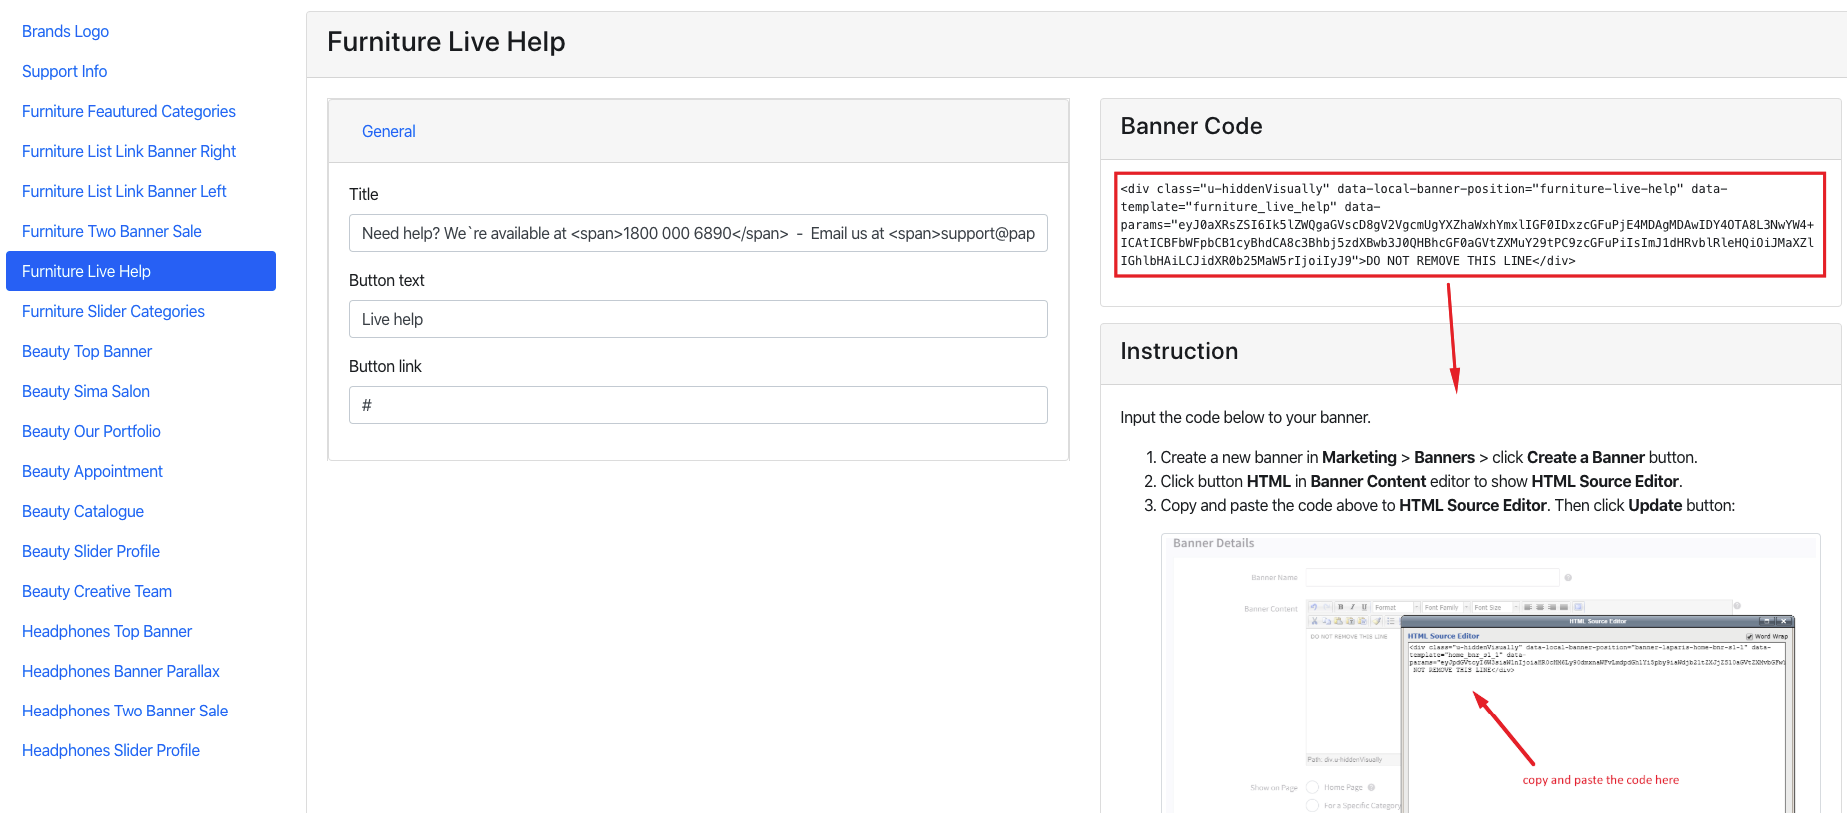
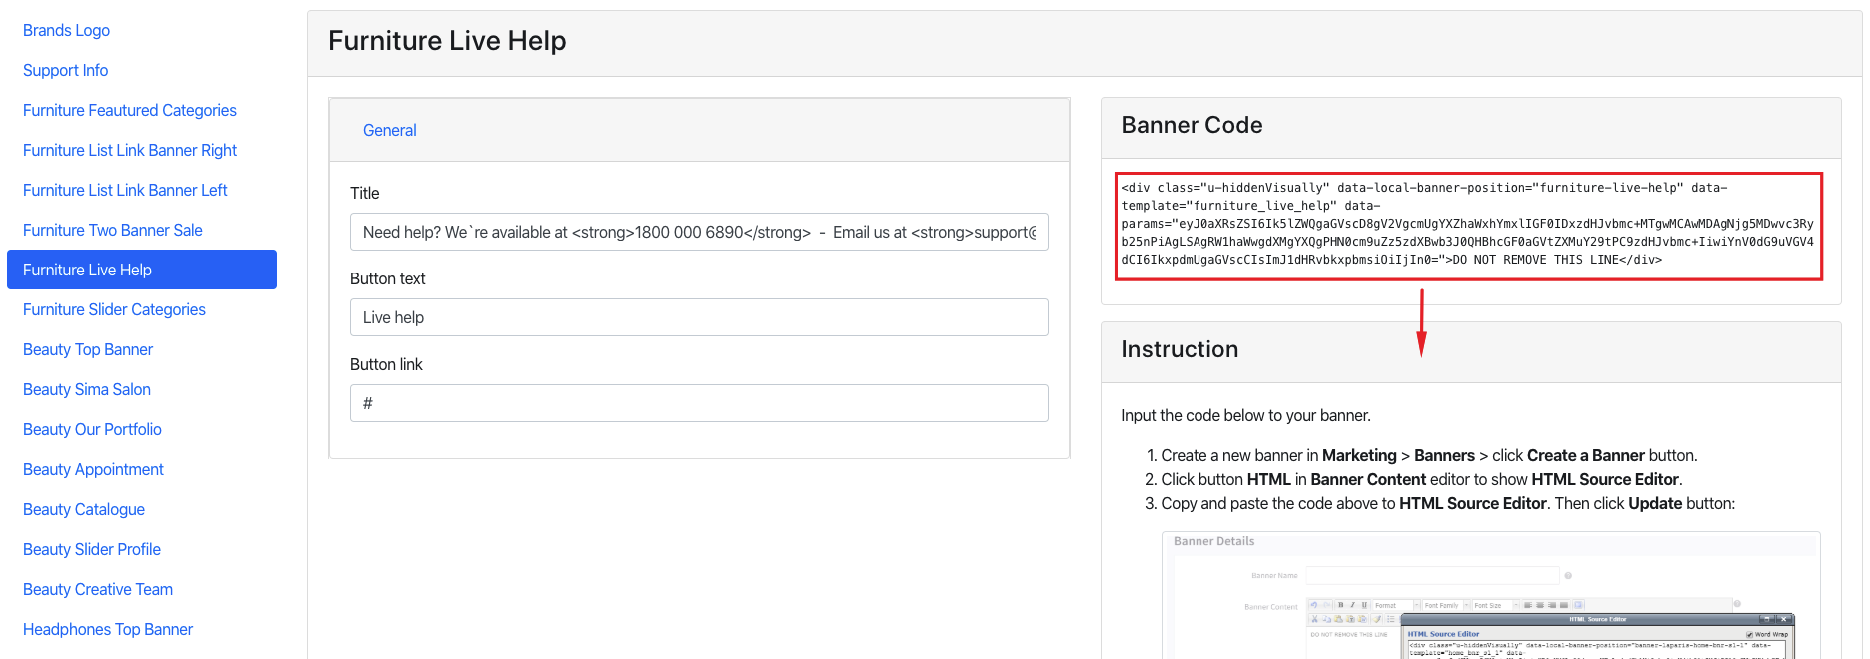
update

diff --git a/docs/miwfurinture-theme.md b/docs/miwfurinture-theme.md
@@ -72,67 +72,34 @@ You can select the sections displayed on the homepage (maximum 11 sections) in *
 
 ![Furniture Featured Categories Section](img/sections/furniture-featured-categories-section.png)
 
-To edit content and images of banners, Open the link below on your web browser: [https://bc-feellio-builder.papathemes.com/](https://bc-feellio-builder.papathemes.com/)
+To edit content and images in this block, open the builder tool: [https://bc-feellio-builder.papathemes.com/](https://bc-feellio-builder.papathemes.com/)
 
-Chooes the tab __Furniture Featured Categories Section__ and Enter all required info on the form.
+Chooes __Furniture Featured Categories__ tab, fill in the form and follow the instruction on that page to create banner.
 
 ![banner content html source editor](img/furniture-featured-categories-section-code.png)
 
-- Create a new banner in __Marketing__ > __Banners__ > click __Create a Banner__ button.
-- Click button __HTML__ in __Banner Content__ editor to show __HTML Source Editor__.
-- Copy and paste the code above to __HTML Source Editor__. Then click __Update__ button:
-
-![banner content html source editor](img/banner-content-html-source-editor.jpg)
-
-Set Show on __Page = Home Page__ and __Location = Top of Page__:
-
-![config banner show on home](img/config-banner-show-on-home.jpg)
-
-Click **Save** button to finish.
 
 ## --- Furniture Listlink Banner Right Section
 
 ![Furniture Listlink Banner Right Section](img/sections/furniture-listlink-banner-right-section.png)
 
-To edit content and images of banners, Open the link below on your web browser: [https://bc-feellio-builder.papathemes.com/](https://bc-feellio-builder.papathemes.com/)
+To edit content and images in this block, open the builder tool: [https://bc-feellio-builder.papathemes.com/](https://bc-feellio-builder.papathemes.com/)
 
-Chooes the tab __Furniture Listlink Banner Right Section__ and Enter all required info on the form.
+Chooes __Furniture Listlink Banner Right__ tab, fill in the form and follow the instruction on that page to create banner.
 
 ![banner content html source editor](img/furniture-listlink-banner-right-section-code.png)
 
-- Create a new banner in __Marketing__ > __Banners__ > click __Create a Banner__ button.
-- Click button __HTML__ in __Banner Content__ editor to show __HTML Source Editor__.
-- Copy and paste the code above to __HTML Source Editor__. Then click __Update__ button:
-
-![banner content html source editor](img/banner-content-html-source-editor.jpg)
-
-Set Show on __Page = Home Page__ and __Location = Top of Page__:
-
-![config banner show on home](img/config-banner-show-on-home.jpg)
-
-Click **Save** button to finish.
 
 ## --- Furniture Listlink Banner Left Section
 
 ![Furniture Listlink Banner Left Section](img/sections/furniture-listlink-banner-left-section.png)
 
-To edit content and images of banners, Open the link below on your web browser: [https://bc-feellio-builder.papathemes.com/](https://bc-feellio-builder.papathemes.com/)
+To edit content and images in this block, open the builder tool: [https://bc-feellio-builder.papathemes.com/](https://bc-feellio-builder.papathemes.com/)
 
-Chooes the tab __Furniture Listlink Banner Left Section__ and Enter all required info on the form.
+Chooes __Furniture Listlink Banner Left__ tab, fill in the form and follow the instruction on that page to create banner.
 
 ![banner content html source editor](img/furniture-listlink-banner-left-section-code.png)
 
-- Create a new banner in __Marketing__ > __Banners__ > click __Create a Banner__ button.
-- Click button __HTML__ in __Banner Content__ editor to show __HTML Source Editor__.
-- Copy and paste the code above to __HTML Source Editor__. Then click __Update__ button:
-
-![banner content html source editor](img/banner-content-html-source-editor.jpg)
-
-Set Show on __Page = Home Page__ and __Location = Top of Page__:
-
-![config banner show on home](img/config-banner-show-on-home.jpg)
-
-Click **Save** button to finish.
 
 ## --- Furniture Daily Deals Section
 
@@ -148,23 +115,11 @@ You can configure this section in **Theme Editor** > **Homepage** > **Daily Deal
 
 ![Furniture Banner Sale Section](img/sections/furniture-banner-sale-section.png)
 
-To edit content and images of banners, Open the link below on your web browser: [https://bc-feellio-builder.papathemes.com/](https://bc-feellio-builder.papathemes.com/)
+To edit content and images in this block, open the builder tool: [https://bc-feellio-builder.papathemes.com/](https://bc-feellio-builder.papathemes.com/)
 
-Chooes the tab __Furniture Banner Sale Section__ and Enter all required info on the form.
-
-- Create a new banner in __Marketing__ > __Banners__ > click __Create a Banner__ button.
-- Click button __HTML__ in __Banner Content__ editor to show __HTML Source Editor__.
-- Copy and paste the code above to __HTML Source Editor__. Then click __Update__ button:
+Chooes __Furniture Banner Sale__ tab, fill in the form and follow the instruction on that page to create banner.
 
 ![banner content html source editor](img/furniture-banner-sale-section-code.png)
-
-![banner content html source editor](img/banner-content-html-source-editor.jpg)
-
-Set Show on __Page = Home Page__ and __Location = Top of Page__:
-
-![config banner show on home](img/config-banner-show-on-home.jpg)
-
-Click **Save** button to finish.
 
 
 
@@ -257,7 +212,9 @@ Set Show on __Page = Home Page__ and __Location = Bottom of Page__:
 
 Click **Save** button to finish.
 
-You can freely edit the HTML above to change banner images or links but keep the HTML attribute `data-local-banner-position="furnisima-pbcst1"` unchanged.
+You can freely edit the HTML above to change banner images or links but keep the HTML attribute `data-local-banner-position="furnisima-pbcst1"`, or change `1` with numbers in the order `2,3...n` corresponding to the order of block product by categories.
+
+![config banner show on home](img/furnisima-pbcst-custom.png)
 
 ## --- Furniture Recent Posts Section
 
@@ -269,67 +226,34 @@ To show Recent Posts section on **Home Page**, go to **Theme Editor** > **Homepa
 
 ![Furniture Top Brands Section](img/sections/furniture-top-brands-section.png)
 
-To edit content and images of banners, Open the link below on your web browser: [https://bc-feellio-builder.papathemes.com/](https://bc-feellio-builder.papathemes.com/)
+To edit content and images in this block, open the builder tool: [https://bc-feellio-builder.papathemes.com/](https://bc-feellio-builder.papathemes.com/)
 
-Chooes the tab __Furniture Top Brands Section__ and Enter all required info on the form.
+Chooes __Furniture Top Brands__ tab, fill in the form and follow the instruction on that page to create banner.
 
 ![banner content html source editor](img/furniture-top-brands-section-code.png)
 
-- Create a new banner in __Marketing__ > __Banners__ > click __Create a Banner__ button.
-- Click button __HTML__ in __Banner Content__ editor to show __HTML Source Editor__.
-- Copy and paste the code above to __HTML Source Editor__. Then click __Update__ button:
-
-![banner content html source editor](img/banner-content-html-source-editor.jpg)
-
-Set Show on __Page = Home Page__ and __Location = Top of Page__:
-
-![config banner show on home](img/config-banner-show-on-home.jpg)
-
-Click **Save** button to finish.
 
 ## --- Furniture Live Help Section
 
 ![Furniture Top Brands Section](img/sections/furniture-live-help-section.png)
 
-To edit content and images of banners, Open the link below on your web browser: [https://bc-feellio-builder.papathemes.com/](https://bc-feellio-builder.papathemes.com/)
+To edit content and images in this block, open the builder tool: [https://bc-feellio-builder.papathemes.com/](https://bc-feellio-builder.papathemes.com/)
 
-Chooes the tab __Furniture Live Help Section__ and Enter all required info on the form.
+Chooes __Furniture Live Help__ tab, fill in the form and follow the instruction on that page to create banner.
 
 ![banner content html source editor](img/furniture-live-help-section-code.png)
 
-- Create a new banner in __Marketing__ > __Banners__ > click __Create a Banner__ button.
-- Click button __HTML__ in __Banner Content__ editor to show __HTML Source Editor__.
-- Copy and paste the code above to __HTML Source Editor__. Then click __Update__ button:
-
-![banner content html source editor](img/banner-content-html-source-editor.jpg)
-
-Set Show on __Page = Home Page__ and __Location = Top of Page__:
-
-![config banner show on home](img/config-banner-show-on-home.jpg)
-
-Click **Save** button to finish.
 
 ## --- Furniture Support Info Section
 
 ![Furniture Support Info Section](img/sections/furniture-support-info-section.png)
 
-To edit content and images of banners, Open the link below on your web browser: [https://bc-feellio-builder.papathemes.com/](https://bc-feellio-builder.papathemes.com/)
+To edit content and images in this block, open the builder tool: [https://bc-feellio-builder.papathemes.com/](https://bc-feellio-builder.papathemes.com/)
 
-Chooes the tab __Furniture Live Help Section__ and Enter all required info on the form.
+Chooes __Furniture Live Help__ tab, fill in the form and follow the instruction on that page to create banner.
 
 ![banner content html source editor](img/furniture-support-info-section-code.png)
 
-- Create a new banner in __Marketing__ > __Banners__ > click __Create a Banner__ button.
-- Click button __HTML__ in __Banner Content__ editor to show __HTML Source Editor__.
-- Copy and paste the code above to __HTML Source Editor__. Then click __Update__ button:
-
-![banner content html source editor](img/banner-content-html-source-editor.jpg)
-
-Set Show on __Page = Home Page__ and __Location = Top of Page__:
-
-![config banner show on home](img/config-banner-show-on-home.jpg)
-
-Click **Save** button to finish.
 
 ## --- Furniture Instagram Section
 
@@ -337,9 +261,11 @@ Click **Save** button to finish.
 
 To show your Intagram photos on Home Page, go to **Theme Editor** > **Homepage** > **Instagram**, input your **Access Token** code and **User ID**.
 
-To retrieve your Access Token, use this tool [https://bit.ly/2Cm0I1O/](https://bit.ly/2Cm0I1O/)
+To retrieve your Access Token, use this tool [https://bit.ly/2Cm0I1O](https://bit.ly/2Cm0I1O)
 
-To retrieve your User ID, use this tool [https://bit.ly/2Et7ULx/](https://bit.ly/2Et7ULx/)
+![Furniture Instagram Section](img/instagram-custom.png)
+
+Here you can configure access token and number of photos.
 
 Choose **Number of photos** to show up.
 

diff --git a/docs/wholesale-theme.md b/docs/wholesale-theme.md
@@ -17,8 +17,7 @@ You can select the sections displayed on the homepage (maximum 11 sections) in *
 * **section4": "featured_products**
 * **section5": "bc_banner_home_2**
 * **section6": "popular_products**
-* **section7": "bc_banner_home_3**
-* **section8": "products_by_category_sorting_tabs**
+* **section7": "products_by_category_sorting_tabs**
 
 ## --- Wholesale Top Categories Section
 
